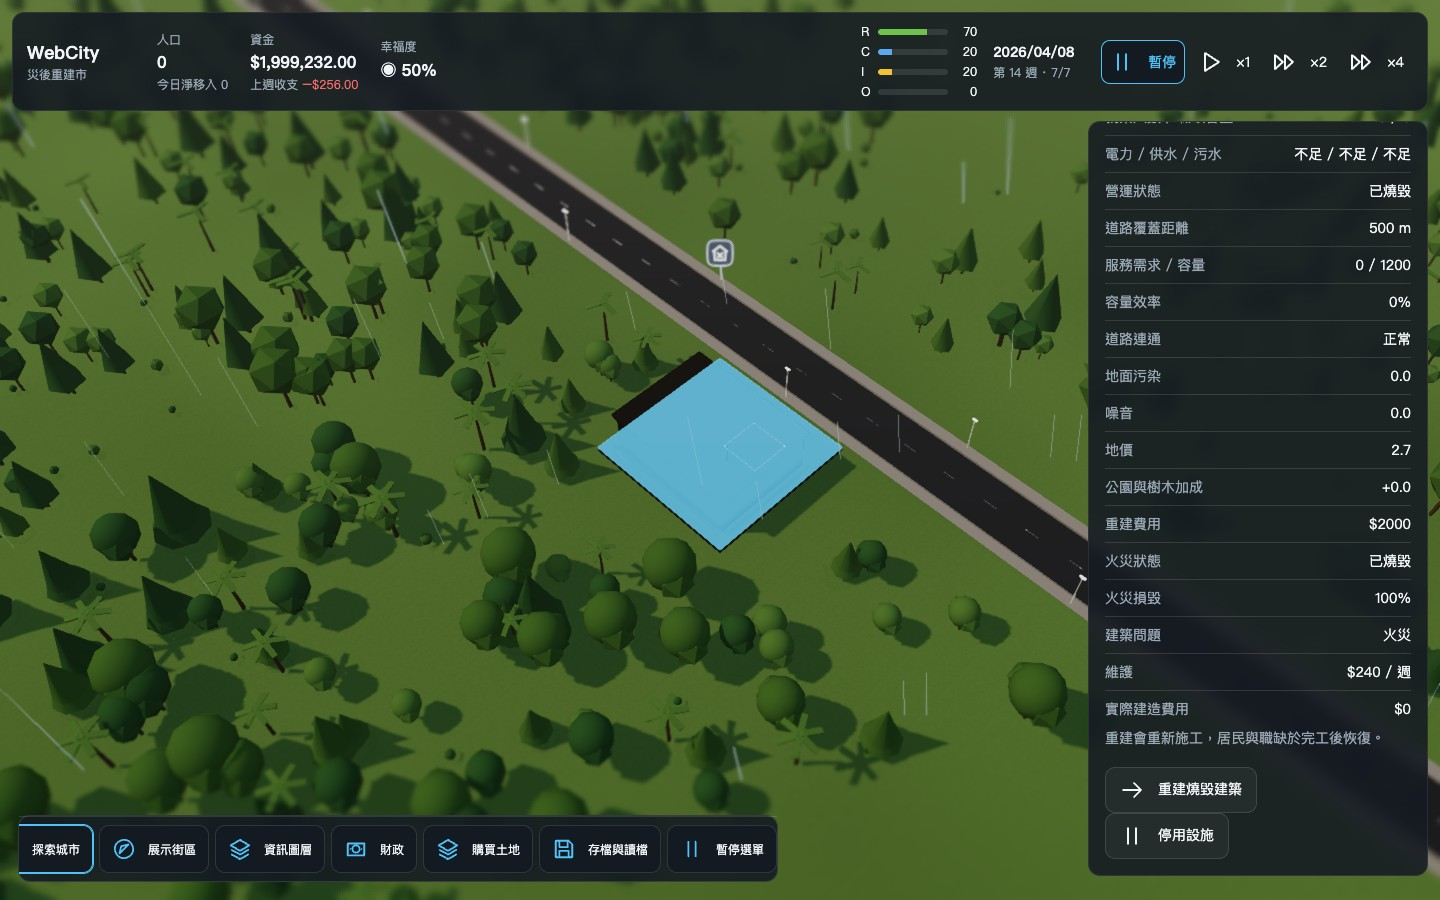
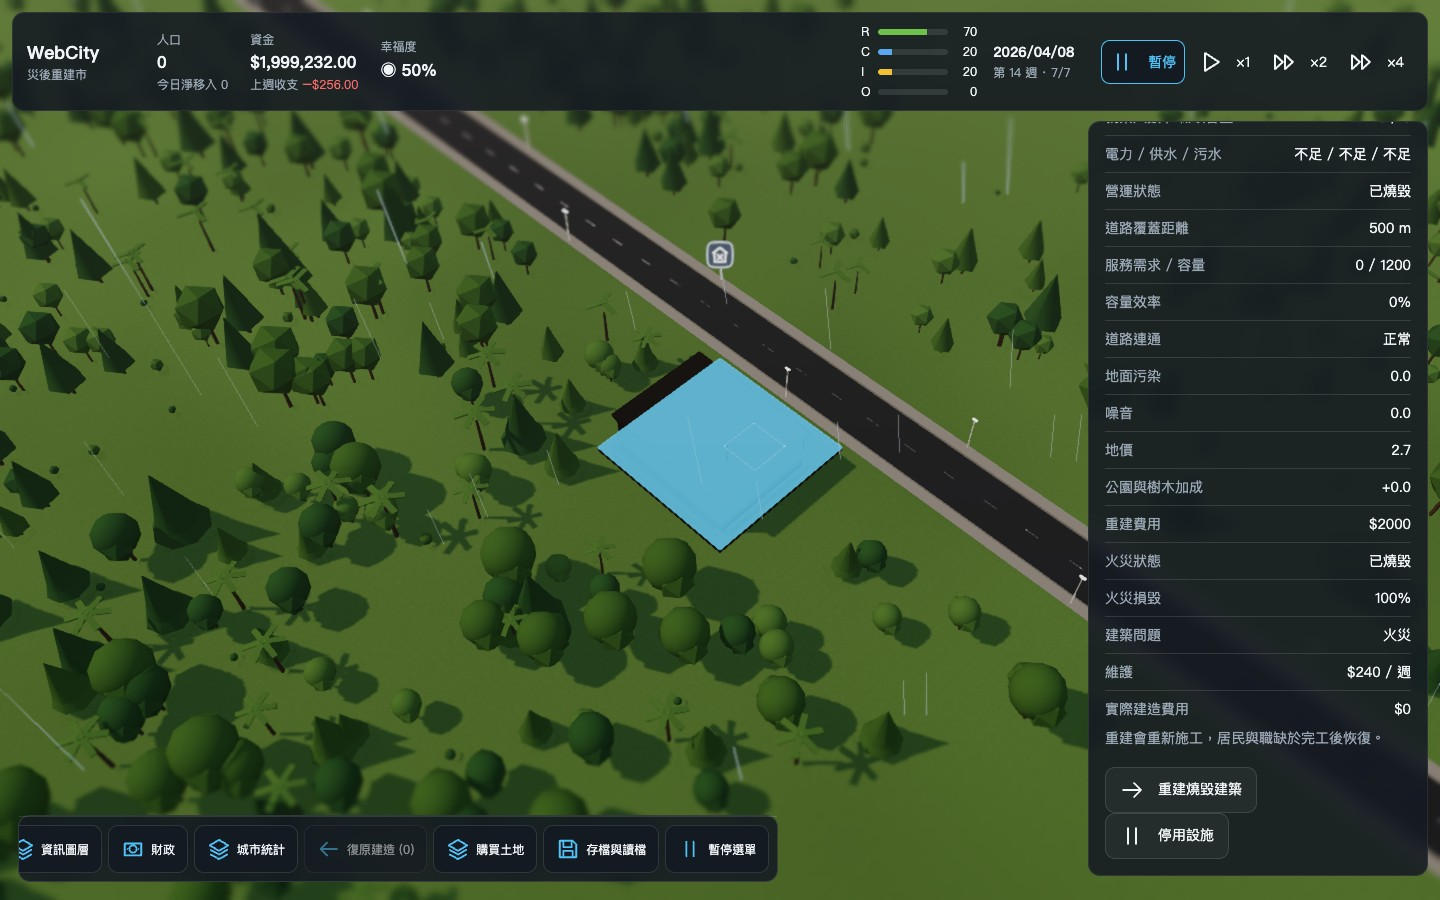
test(disaster): stabilize notification expiry and touch recovery

Changed region(s): [[0.0, 0.9333, 0.5312, 0.9644]]

diff --git a/tests/e2e/disasters.spec.ts b/tests/e2e/disasters.spec.ts
@@ -1,4 +1,4 @@
-import { test, expect, type Page } from '@playwright/test';
+import { test, expect, type Page, type Locator } from '@playwright/test';
 import { mkdir } from 'node:fs/promises';
 import { uniqueState } from '../fixtures/uniqueCity';
 import { Simulation } from '../../src/sim/simulation';
@@ -6,18 +6,27 @@ import { serialize } from '../../src/save/serializer';
 import { loadFixture } from './loadFixture';
 import { hourTicks } from '../../src/world/schedules';
 import { TIME } from '../../src/data/config';
+import { NOTIFICATIONS } from '../../src/data/notifications';
 test.use({ serviceWorkers: 'block' });
-async function settings(page: Page) {
-  await page.getByRole('button', { name: '暫停選單', exact: true }).click();
+async function activate(control: Locator, touch: boolean) {
+  if (touch) await control.tap();
+  else await control.click();
+}
+async function settings(page: Page, touch: boolean) {
+  await activate(
+    page.getByRole('button', { name: '暫停選單', exact: true }),
+    touch,
+  );
   if (
     !(await page
       .locator('.pause-dialog details')
       .evaluate((el) => (el as HTMLDetailsElement).open))
   )
-    await page.locator('.pause-dialog summary').click();
+    await activate(page.locator('.pause-dialog summary'), touch);
 }
 test('optional disaster warns, burns, rebuilds with cost and saves its setting', async ({
   page,
+  hasTouch,
 }, info) => {
   test.setTimeout(120000);
   const errors: string[] = [];
@@ -40,25 +49,38 @@ test('optional disaster warns, burns, rebuilds with cost and saves its setting',
     day: s.clock.day,
     data: Array.from(new Uint8Array(await serialize(sim.snapshot()))),
   });
-  await settings(page);
+  await settings(page, hasTouch);
   const toggle = page.getByRole('checkbox', {
     name: '啟用大型火災災害',
     exact: true,
   });
   await expect(toggle).not.toBeChecked();
-  await toggle.check();
+  await activate(toggle, hasTouch);
+  await expect(toggle).toBeChecked();
   await expect(toggle).toBeEnabled();
-  await page.getByRole('button', { name: '返回城市', exact: true }).click();
-  await page.getByRole('button', { name: '探索城市', exact: true }).click();
+  await activate(
+    page.getByRole('button', { name: '返回城市', exact: true }),
+    hasTouch,
+  );
+  await activate(
+    page.getByRole('button', { name: '探索城市', exact: true }),
+    hasTouch,
+  );
   await page.evaluate(() =>
     window.__webcityCamera!.flyTo({ x: 0, z: 25 }, 200),
   );
-  await page.getByRole('button', { name: '×4', exact: true }).click();
+  await activate(
+    page.getByRole('button', { name: '×4', exact: true }),
+    hasTouch,
+  );
   await expect(page.locator('[data-code="disasterWarning"]')).toBeVisible({
     timeout: 40000,
   });
-  await page.getByRole('button', { name: '暫停', exact: true }).click();
-  await settings(page);
+  await activate(
+    page.getByRole('button', { name: '暫停', exact: true }),
+    hasTouch,
+  );
+  await settings(page, hasTouch);
   await expect(
     page.locator('.disaster-settings [role="status"]'),
   ).toContainText('火災預警');
@@ -70,6 +92,7 @@ test('optional disaster warns, burns, rebuilds with cost and saves its setting',
     type: 'jpeg',
     quality: 90,
     scale: 'css',
+    animations: 'disabled',
   });
   if (info.project.name === 'iPhone 15') {
     await page.setViewportSize({ width: 844, height: 390 });
@@ -79,15 +102,25 @@ test('optional disaster warns, burns, rebuilds with cost and saves its setting',
       type: 'jpeg',
       quality: 90,
       scale: 'css',
+      animations: 'disabled',
     });
     await page.setViewportSize({ width: 393, height: 852 });
   }
-  await page.getByRole('button', { name: '返回城市', exact: true }).click();
-  await page.getByRole('button', { name: '×1', exact: true }).click();
+  await activate(
+    page.getByRole('button', { name: '返回城市', exact: true }),
+    hasTouch,
+  );
+  await activate(
+    page.getByRole('button', { name: '×1', exact: true }),
+    hasTouch,
+  );
   await page.waitForFunction(() =>
     window.__webcityBuildings!().some((b) => b.fire?.burning),
   );
-  await page.getByRole('button', { name: '暫停', exact: true }).click();
+  await activate(
+    page.getByRole('button', { name: '暫停', exact: true }),
+    hasTouch,
+  );
   await page.addStyleTag({
     content: '.debug-panel,.picking-debug{display:none!important}',
   });
@@ -96,14 +129,24 @@ test('optional disaster warns, burns, rebuilds with cost and saves its setting',
     type: 'jpeg',
     quality: 90,
     scale: 'css',
+    animations: 'disabled',
   });
-  await page.getByRole('button', { name: '×1', exact: true }).click();
+  await activate(
+    page.getByRole('button', { name: '×1', exact: true }),
+    hasTouch,
+  );
   await page.waitForFunction(() =>
     window.__webcityBuildings!().some((b) => b.state === 'burned'),
   );
-  await page.getByRole('button', { name: '暫停', exact: true }).click();
-  for (const close of await page.locator('.notice-dismiss').all())
-    if (await close.isVisible()) await close.click();
+  await activate(
+    page.getByRole('button', { name: '暫停', exact: true }),
+    hasTouch,
+  );
+  // Paused simulation still lets notices expire in real time. Do not retain
+  // indexed close-button locators across the notification host's re-renders.
+  await expect(page.locator('.city-notice')).toHaveCount(0, {
+    timeout: NOTIFICATIONS.visibleMs + NOTIFICATIONS.pollMs + 2000,
+  });
   const p = await page.evaluate(() => {
     const c = window.__webcityCamera!.camera,
       v = c.position.clone().set(0, 60, 20).project(c);
@@ -112,7 +155,13 @@ test('optional disaster warns, burns, rebuilds with cost and saves its setting',
       y: ((1 - v.y) * innerHeight) / 2,
     };
   });
-  if (info.project.use.hasTouch) await page.touchscreen.tap(p.x, p.y);
+  expect(
+    await page.evaluate(
+      ({ x, y }) => document.elementFromPoint(x, y)?.tagName,
+      p,
+    ),
+  ).toBe('CANVAS');
+  if (hasTouch) await page.touchscreen.tap(p.x, p.y);
   else await page.mouse.click(p.x, p.y);
   await expect(page.locator('.inspect-data')).toContainText('重建費用');
   await expect(page.locator('.inspect-data')).not.toContainText('運作中');
@@ -126,38 +175,51 @@ test('optional disaster warns, burns, rebuilds with cost and saves its setting',
     type: 'jpeg',
     quality: 90,
     scale: 'css',
+    animations: 'disabled',
   });
   const before = await page.evaluate(() => window.__webcityStats!()!.money);
-  await rebuild.click();
+  const bounds = await rebuild.boundingBox();
+  expect(bounds!.width).toBeGreaterThanOrEqual(44);
+  expect(bounds!.height).toBeGreaterThanOrEqual(44);
+  await activate(rebuild, hasTouch);
   await page.waitForFunction(() =>
     window.__webcityBuildings!().some((b) => b.state === 'construction'),
   );
   expect(await page.evaluate(() => window.__webcityStats!()!.money)).toBe(
     before - 2000,
   );
-  await page
-    .locator('.inspect-host')
-    .getByRole('button', { name: '關閉面板', exact: true })
-    .click();
-  await page.getByRole('button', { name: '存檔與讀檔', exact: true }).click();
-  await page
-    .locator('[data-slot="1"]')
-    .getByRole('button', { name: '儲存', exact: true })
-    .click();
+  await activate(
+    page
+      .locator('.inspect-host')
+      .getByRole('button', { name: '關閉面板', exact: true }),
+    hasTouch,
+  );
+  await activate(
+    page.getByRole('button', { name: '存檔與讀檔', exact: true }),
+    hasTouch,
+  );
+  await activate(
+    page
+      .locator('[data-slot="1"]')
+      .getByRole('button', { name: '儲存', exact: true }),
+    hasTouch,
+  );
   await expect(page.locator('.save-status')).toHaveText('存檔清單已更新');
   await page.reload();
-  await page
-    .getByRole('button', { name: '繼續最近的城市', exact: true })
-    .click();
+  await activate(
+    page.getByRole('button', { name: '繼續最近的城市', exact: true }),
+    hasTouch,
+  );
   await page.waitForSelector('.road-controls[data-ready="true"]');
   expect(
     await page.evaluate(() =>
       window.__webcityBuildings!().some((b) => b.state === 'construction'),
     ),
   ).toBe(true);
-  await settings(page);
+  await settings(page, hasTouch);
   await expect(toggle).toBeChecked();
-  await toggle.uncheck();
+  await activate(toggle, hasTouch);
+  await expect(toggle).not.toBeChecked();
   await expect(page.locator('.disaster-settings [role="status"]')).toHaveText(
     '目前沒有災害預警',
   );

diff --git a/docs/TASKS.md b/docs/TASKS.md
@@ -1012,6 +1012,8 @@
 - **道路觸控追加（2026-10-14）**：手機道路案例改以原生觸控啟動／切換／取消工具，避免滑鼠懸停說明影響觸控測試；曲線取景保留完整建造面板，逐點確認落在地面。新增曲線完成後雙指平移不施工、不扣款，以及 iPhone 橫式實際鋪路與確認扣款檢查；未修改遊戲道路或 UI 規則。三裝置回歸結果與 Safari 真機待驗項目見 [COMPAT.md](COMPAT.md)。
 - **鎖定標籤簡化（2026-10-15）**：依使用者要求移除建造卡片及工具分類的 MS 數字與長鎖定文字，只保留鎖頭；短按／點擊鎖定項目可查看人口門檻，獨特建築前置設施移入說明。保留原有 disabled、選取驗證與 Worker 解鎖規則，詳見 [COMPAT.md](COMPAT.md)。
 
+- **災害回歸（2026-10-19）**：排除通知自動移除造成的測試競態；災害流程以裝置原生觸控／滑鼠操作，驗證預警、火災、燒毀、重建扣款與存讀檔。三裝置災害及通知定位／退場六案例同批通過，詳見 [COMPAT.md](COMPAT.md)。僅測試與文件更新，未新增部署；完整瀏覽器與真機矩陣仍待驗證。
+
 ### M5-06　PWA 驗證
 - **分支**：`feature/m5-06-pwa-verify`｜**相依**：M0-04｜**估時**：1
 - **參考**：TECH §11
